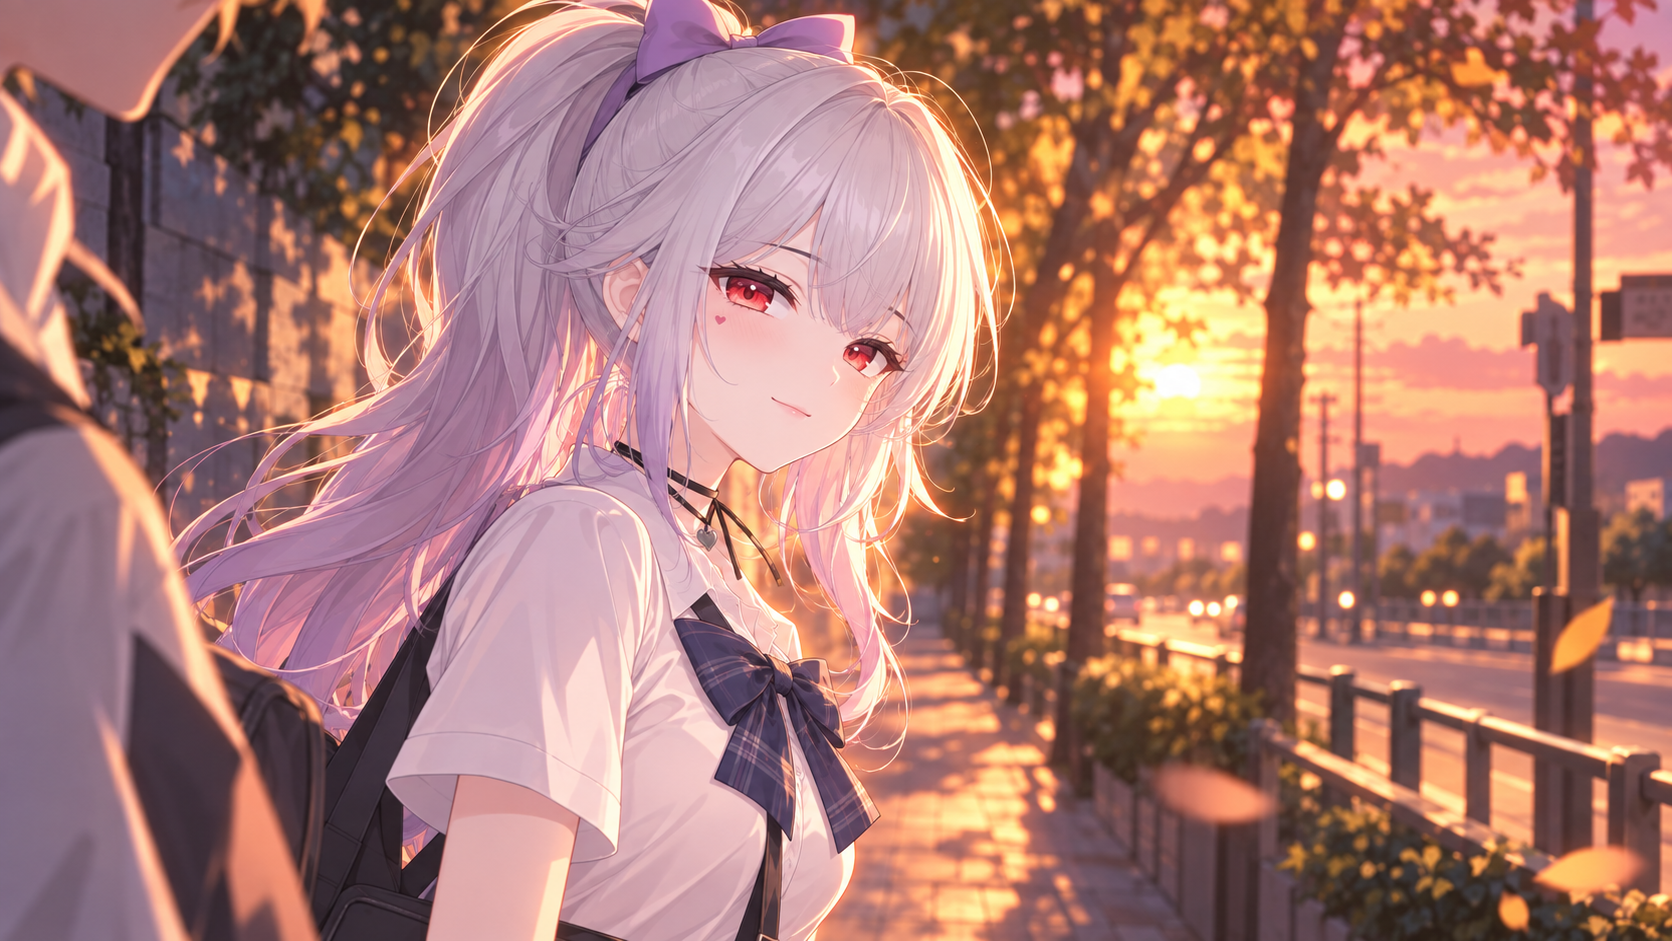
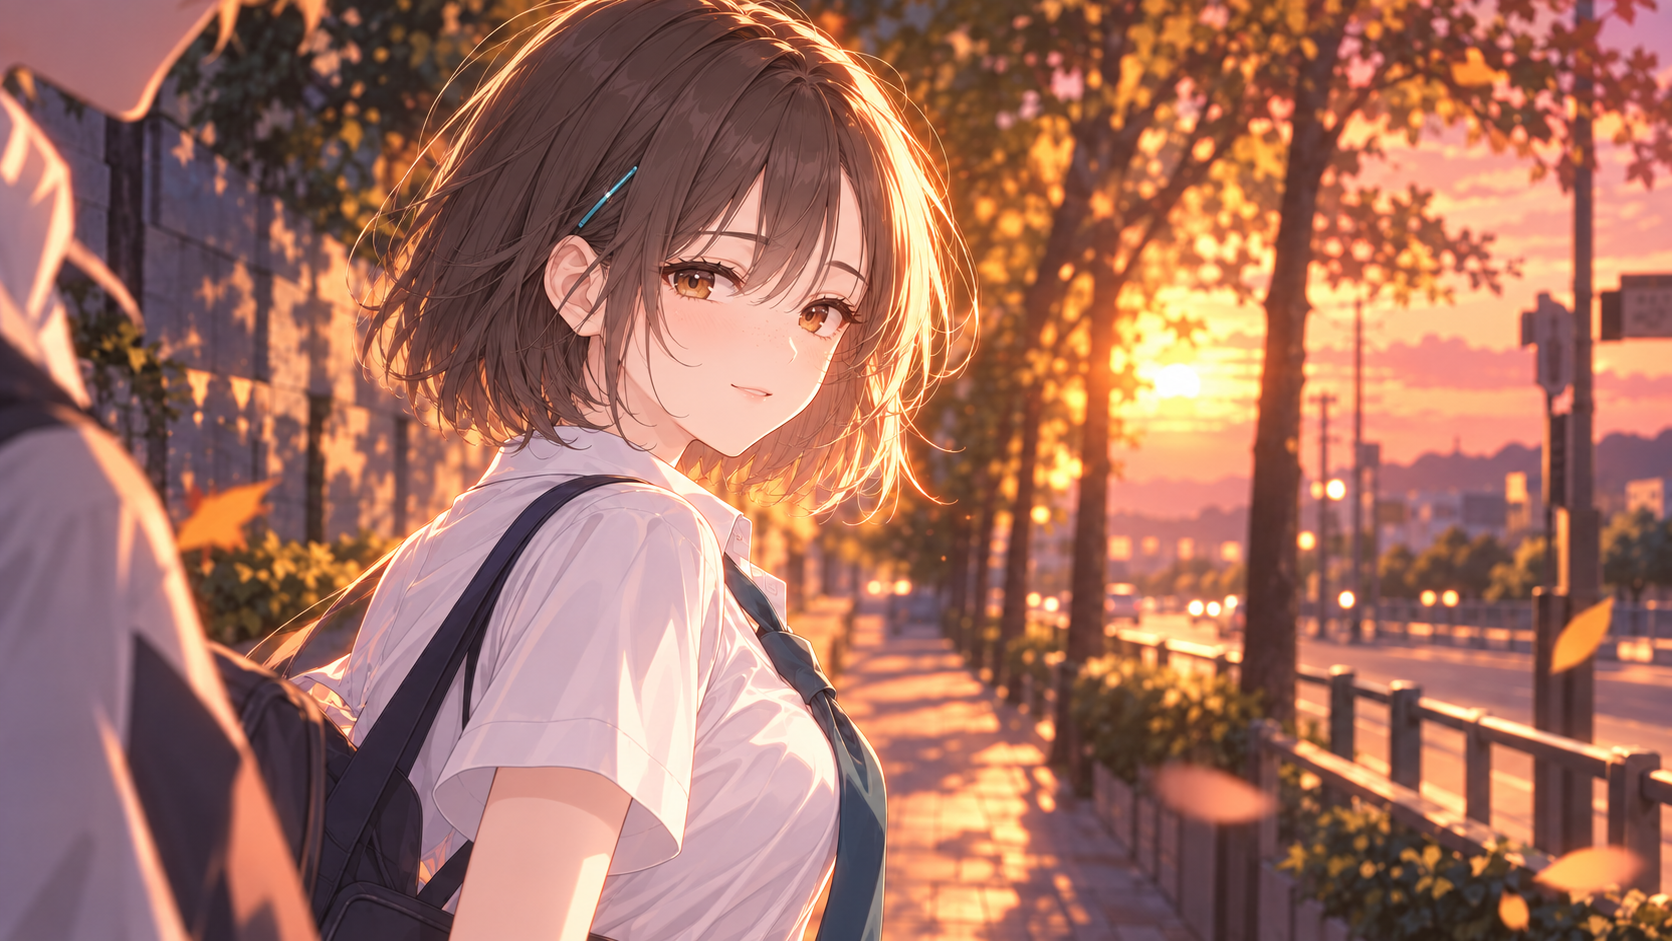
CH09 CG 원본 구도와 자세 반영

Changed region(s): [[0.0933, 0.0, 0.622, 1.0]]

diff --git a/docs/illustration-replacement-prompts.md b/docs/illustration-replacement-prompts.md
@@ -240,7 +240,7 @@ CG는 공통 CG 블록과 파일별 장면 프롬프트를 이어 붙인다. 무
 | [cg-07.png](../assets/cg/cg-07.png) · CH07 기말고사 | 원본의 구도와 자세를 유지한다. 긴 책상 앞 중앙 왼쪽에 앉은 온이유가 몸을 살짝 숙이고, 책상에 댄 한쪽 팔의 손으로 뺨을 받친 채 다른 손으로 펼친 문제집에 연필을 움직인다. 왼쪽 아래에는 쌓인 책, 오른쪽 아래에는 펼친 큰 교재를 둔다. 왼쪽 배경은 흐린 도서관 서가와 따뜻한 스탠드 조명, 오른쪽은 눈 덮인 나뭇가지가 보이는 큰 창으로 구성한다. 새 캐릭터 외형과 겨울 교복을 적용하고 안경·읽을 수 있는 글자·로고는 넣지 않는다. |
 | [cg-08.png](../assets/cg/cg-08.png) · CH08 첫눈 | 원본의 구도와 자세를 유지한다. 왼쪽 전경에 허리 위까지 보이는 온이유를 크게 배치하고, 몸은 오른쪽으로 살짝 틀며 한 손으로 가슴 앞 가방끈을 잡는다. 고개와 시선은 위쪽 오른편의 첫눈을 향한다. 왼쪽 끝에는 학교 입구와 글자 없는 표지판, 오른쪽 3분의 1에는 따뜻한 가로등을 두고 눈 덮인 길과 건물, 분홍빛 겨울 저녁 하늘을 배경으로 한다. 새 캐릭터 외형에 짙은 남색 코트와 연한 베이지 체크 목도리를 입히고 글자·로고는 넣지 않는다. |
 | [cg-09.png](../assets/cg/cg-09.png) · 1학년→2학년 전환 | 원본의 구도와 자세를 유지한다. 온이유를 화면 왼쪽 전경에 허벅지 중간까지 보이게 두고, 몸은 학교 안쪽 중앙 소실점을 향해 걸어간다. 양쪽 어깨에 가방을 멘 채 한쪽 다리를 내딛고, 고개만 오른쪽 어깨 너머로 돌려 오른쪽을 향한 옆얼굴로 바라본다. 양옆의 높은 교문 기둥과 화면 위쪽을 덮은 벚꽃 가지, 중앙의 학교 건물·등교하는 학생들, 아래쪽으로 이어지는 길의 원근 배치를 그대로 살린다. 새 캐릭터 기준 외형과 교복을 적용하고 표지판과 학교 건물에는 읽을 수 있는 글자·로고를 넣지 않는다. |
-| [cg-10.png](../assets/cg/cg-10.png) · CH09 새로운 반 | 늦은 오후 학교 복도나 교정 길, 새 반에서 적응을 시작한 온이유가 노을빛을 받으며 잠시 뒤돌아본다. 익숙해지는 중인 표정과 새 친구들의 흐린 실루엣으로 변화의 기분을 전한다. |
+| [cg-10.png](../assets/cg/cg-10.png) · CH09 새로운 반 | 원본의 구도와 자세를 유지한다. 허리 위 근접 구도로 온이유를 화면 중앙 왼쪽에 두고, 몸과 어깨는 오른쪽 길을 향해 비스듬히 돌린다. 걸음을 이어가며 얼굴만 왼쪽 전경의 동행자를 돌아보고, 가방끈이 어깨에 걸린 모습과 조심스러운 미소를 살린다. 동행자는 얼굴이 보이지 않는 흐린 어깨 실루엣으로 화면 맨 왼쪽에 둔다. 오른쪽 절반에는 노을이 낮게 비치는 길과 난간·도시 불빛을 두고, 단풍 가지가 화면 위쪽을 감싼다. 새 캐릭터 기준 외형과 교복을 적용하고 글자·로고는 넣지 않는다. |
 | [cg-11.png](../assets/cg/cg-11.png) · CH10 동아리 활동 | 방과 후 미술 동아리실, 온이유가 작업대 앞에 앉아 붓으로 작은 그림을 마무리한다. 주변의 물감과 종이, 캔버스가 보이고 스탠드 조명이 손과 그림에 모인다. |
 | [cg-12.png](../assets/cg/cg-12.png) · CH11 방학 계획 | 더운 여름날 교실 또는 미술실, 온이유가 책상에 앉아 접이식 부채로 더위를 식히며 물병과 스케치북을 곁에 둔다. 열린 창으로 들어오는 여름빛과 느긋한 방학 전 분위기. |
 | [cg-13-1.png](../assets/cg/cg-13-1.png) · CH12 우연한 만남, 기본 의상 | 동네 서점의 게임 잡지·캐릭터 굿즈 매대 앞, 흰 티셔츠와 데님 하의를 입은 온이유가 진열물을 살펴보다 플레이어를 발견하고 반갑게 돌아본다. 잡지 표지와 진열물은 읽을 수 없는 가상 그래픽으로 처리한다. |
@@ -277,4 +277,4 @@ CG는 공통 CG 블록과 파일별 장면 프롬프트를 이어 붙인다. 무
 - 이미지 모델이 만든 문자·로고·워터마크는 제거하고, 필요한 문구는 별도로 편집한다.
 - 인물 외형 참조에는 승인된 공통 캐릭터 기준 이미지만 사용한다. 사용자가 특정 의상 참고 이미지를 제공한 경우에는 지정된 의상 형태만 참고하고 얼굴·머리·포즈·배경은 복사하지 않는다. 결과가 새 공통 캐릭터 기준과 다르면 해당 파일을 다시 생성한다.
 
-이 문서는 교체 대상의 프롬프트와 파일 대응표다. S·W·G·A·C1·P1·C13·P13·C16·P16·C24·P24·GR 스탠딩 세트와 타이틀 표지, cg-01~cg-09의 생성 및 파일 교체를 완료했으며, 나머지 CG는 한 장씩 진행한다.
+이 문서는 교체 대상의 프롬프트와 파일 대응표다. S·W·G·A·C1·P1·C13·P13·C16·P16·C24·P24·GR 스탠딩 세트와 타이틀 표지, cg-01~cg-10의 생성 및 파일 교체를 완료했으며, 나머지 CG는 한 장씩 진행한다.
